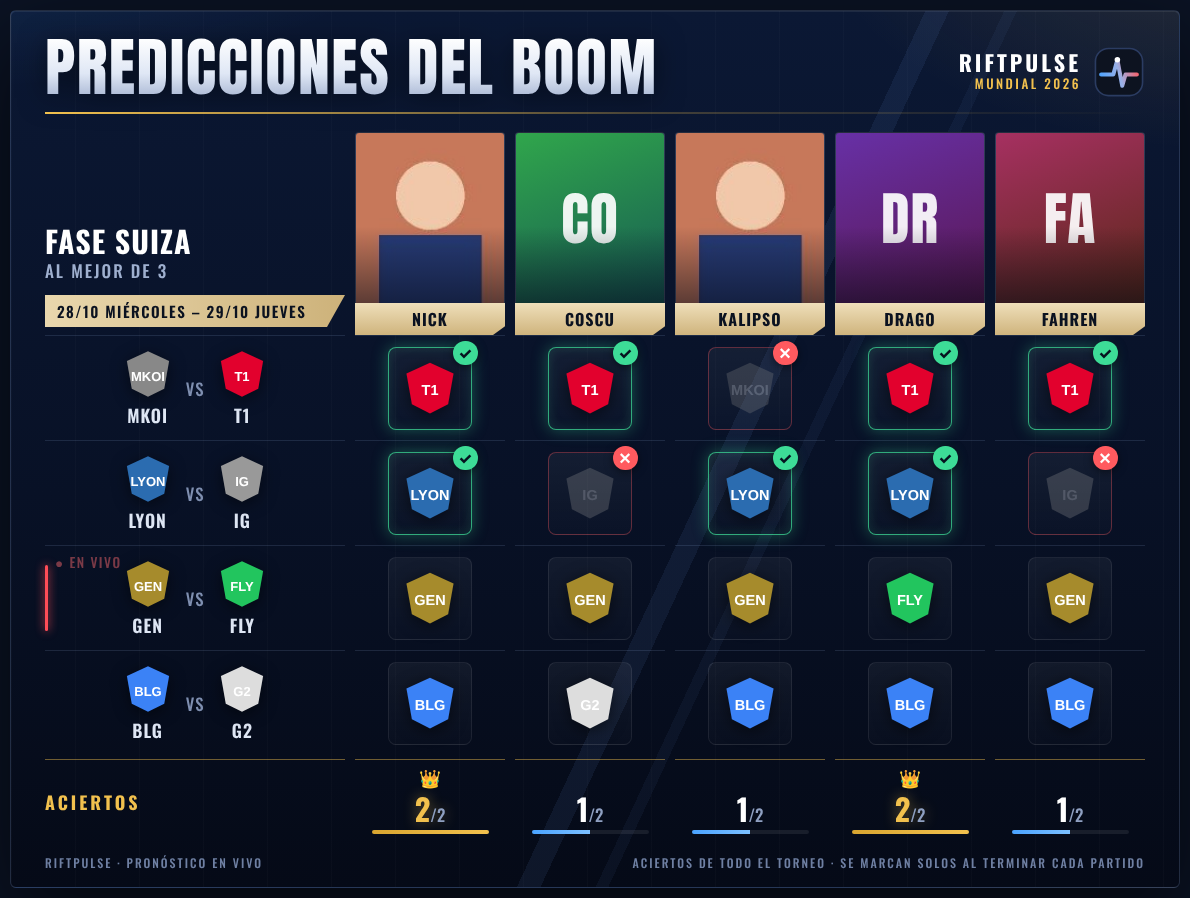
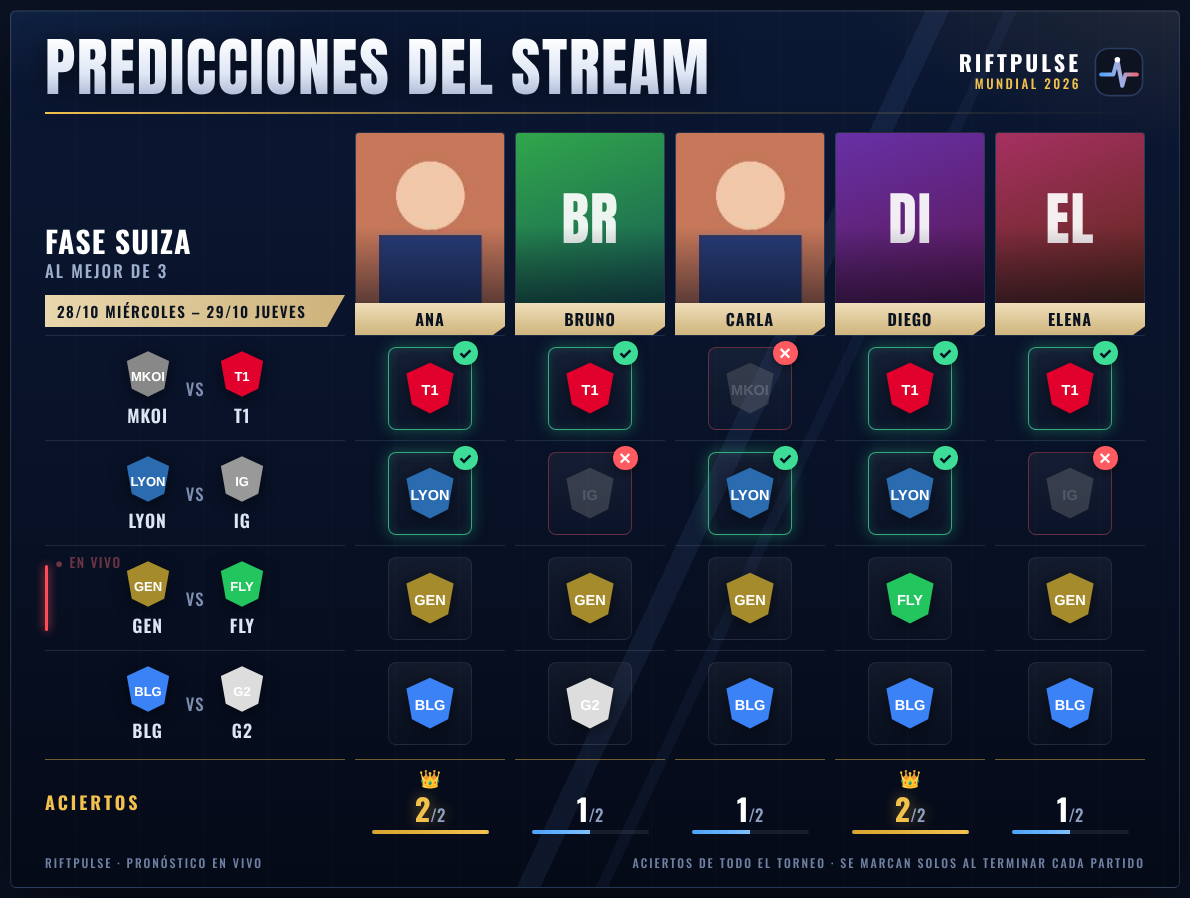
Mesa de analisis: mapa de la Grieta, oro y objetivos, kills, rendimiento por jugador y alineaciones de la serie

diff --git a/analista.html b/analista.html
@@ -96,6 +96,47 @@
   .dr .ch{font-size:12.5px;color:#c7d0e2;line-height:1.7}
   .dr .pl{font-size:12.5px;color:var(--muted);margin-top:6px}.dr .pl b{color:var(--text)}
   .win{margin-top:10px;font-size:13.5px;padding:9px 12px;background:var(--s3);border:1px solid var(--line2);border-radius:10px}
+  /* mapa de la grieta */
+  .rift{display:grid;grid-template-columns:minmax(260px,380px) 1fr;gap:18px;align-items:start}
+  @media(max-width:820px){.rift{grid-template-columns:1fr}}
+  .rift svg{width:100%;height:auto;display:block}
+  .rift .pt{cursor:pointer}
+  .rift .pt circle.r{transition:r .2s}
+  .rift .pt:hover circle.r,.rift .pt.on circle.r{stroke:#f2c14e;stroke-width:1.2}
+  .rift .pls{animation:rpp 1.6s ease-out infinite;transform-origin:center;transform-box:fill-box}
+  @keyframes rpp{0%{opacity:.8;transform:scale(1)}100%{opacity:0;transform:scale(2.4)}}
+  .rdt h3{font-family:var(--ffd,var(--ff));font-size:16px;letter-spacing:1.6px;text-transform:uppercase;margin:0 0 8px}
+  .rdt .ln{display:flex;gap:10px;align-items:baseline;padding:5px 0;border-top:1px solid var(--line2);font-size:13.5px}
+  .rdt .ln:first-of-type{border-top:0}
+  .rdt .t{color:var(--muted);font-variant-numeric:tabular-nums;white-space:nowrap}
+  .rdt .kv{display:flex;flex-wrap:wrap;gap:8px;margin:6px 0 10px}
+  .rdt .kv span{background:var(--s3);border:1px solid var(--line2);border-radius:6px;padding:4px 9px;font-size:12.5px}
+  /* gráficos */
+  .chart{width:100%;display:block}
+  .lg{display:flex;gap:14px;font-size:12px;color:var(--muted);margin-top:6px;flex-wrap:wrap}
+  .lg i{display:inline-block;width:10px;height:10px;border-radius:2px;margin-right:5px;vertical-align:-1px}
+  .pf{width:100%;border-collapse:collapse;font-size:12.5px}
+  .pf td{padding:4px 5px;border-top:1px solid var(--line2);vertical-align:middle}
+  .pf tr.sep td{border-top:2px solid var(--line)}
+  .pf .ch{display:flex;align-items:center;gap:7px;white-space:nowrap}
+  .pf .ch img{width:24px;height:24px;border-radius:4px}
+  .pf .bar{height:7px;border-radius:2px;background:rgba(150,180,230,.12);overflow:hidden;min-width:60px}
+  .pf .bar i{display:block;height:100%}
+  .pf .n{font-variant-numeric:tabular-nums;text-align:right;white-space:nowrap}
+  /* alineaciones de la serie */
+  .maps{display:grid;gap:12px}
+  .mp{display:grid;grid-template-columns:150px 1fr;gap:14px;align-items:center;padding:10px 0;border-top:1px solid var(--line2)}
+  .mp:first-child{border-top:0}
+  @media(max-width:700px){.mp{grid-template-columns:1fr}}
+  .mp .h b{display:block;font-family:var(--ffd,var(--ff));font-size:15px;letter-spacing:1.4px;text-transform:uppercase}
+  .mp .h span{font-size:12px;color:var(--muted)}
+  .mp .lu{display:flex;align-items:center;gap:6px;margin:3px 0}
+  .mp .lu .c{width:46px;font-family:var(--ffd,var(--ff));font-weight:700;letter-spacing:1px}
+  .mp .lu img{width:34px;height:34px;border-radius:4px;border:1px solid var(--line);display:block}
+  .mp .lu .ph{display:inline-grid;place-items:center;width:34px;height:34px;border-radius:4px;border:1px solid var(--line);background:var(--s3);font-size:9px;color:var(--muted);overflow:hidden;text-align:center;line-height:1.05}
+  .mp .lu.w img{border-color:rgba(61,220,151,.6)}
+  .mp .lu.l{opacity:.55}
+  .mp .lu .wn{font-size:11px;color:#3ddc97;letter-spacing:1px;text-transform:uppercase}
   /* resumen post-juego */
   .rc{grid-column:1 / -1;border-color:rgba(242,193,78,.45)}
   .rc .hd{display:flex;align-items:center;gap:12px;flex-wrap:wrap}
@@ -197,6 +238,108 @@
   function recapLines(s){ return R.recapLines(s); }
   function recapPNG(s){ return R.recapPNG(s); }
   function talkingPoints(s){ return R.talk(s).map(function(t,i){ return '<div class="tk"><span><b>'+(i+1)+'.</b> '+t.html+'</span></div>'; }).join(''); }
+  // ---------- campeones (Data Dragon, oficial de Riot) ----------
+  var DDV=null; fetch('https://ddragon.leagueoflegends.com/api/versions.json').then(function(r){return r.json();}).then(function(v){ DDV=v[0]; if(LAST) render(LAST); }).catch(function(){});
+  function champImg(id){ return DDV&&id?'<img src="https://ddragon.leagueoflegends.com/cdn/'+DDV+'/img/champion/'+encodeURIComponent(id)+'.png" alt="" loading="lazy">':''; }
+
+  // ---------- mapa de la Grieta: puntos con datos, se tocan para ver el detalle ----------
+  var RSEL='dragon';
+  var DRAGCOL={Infernal:'#ff6b3d',Océano:'#3db7ff',Montaña:'#c9a46b',Nube:'#cfd8e6',Hextech:'#5ee0e6',Quimtech:'#9be35a',Ancestral:'#b48cff'};
+  function riftCard(s){
+    var m=s.match, g=s.game, t=g.timers||{}, ev=g.events||[], st=g.stats||{blue:{},red:{}};
+    var recent=function(kinds){ return ev.some(function(e){ return kinds.indexOf(e.kind)>=0 && g.gt-e.gt<=60; }); };
+    var lastOf=function(kinds){ return ev.filter(function(e){ return kinds.indexOf(e.kind)>=0; }).slice(-1)[0]; };
+    var dl=lastOf(['dragon','elder']), bl=lastOf(['baron']);
+    var col=function(e,def){ return e?(e.side==='blue'?'#4aa3ff':'#ff5a5f'):def; };
+    var pt=function(id,x,y,c,label,pulse){
+      return '<g class="pt'+(RSEL===id?' on':'')+'" data-pt="'+id+'">'+(pulse?'<circle class="pls" cx="'+x+'" cy="'+y+'" r="4" fill="'+c+'"/>':'')+
+        '<circle class="r" cx="'+x+'" cy="'+y+'" r="4.2" fill="'+c+'" stroke="#0b1220" stroke-width=".8"/><text x="'+x+'" y="'+(y+8.6)+'" text-anchor="middle" font-size="3.4" fill="#c8d3ea" font-family="Oswald,sans-serif" letter-spacing=".3">'+label+'</text></g>';
+    };
+    var svg='<svg viewBox="0 0 100 100" role="img" aria-label="Mapa de la Grieta del Invocador">'+
+      '<defs><linearGradient id="rg" x1="0" y1="0" x2="1" y2="1"><stop offset="0" stop-color="#11233f"/><stop offset="1" stop-color="#1a1426"/></linearGradient></defs>'+
+      '<rect x="1" y="1" width="98" height="98" rx="5" fill="url(#rg)" stroke="#263352"/>'+
+      '<path d="M8 8 L92 92" stroke="#1e4d73" stroke-width="9" opacity=".45"/>'+
+      '<path d="M12 88 L12 12 L88 12 M12 88 L88 88 L88 12 M14 86 L86 14" stroke="#3a4a6b" stroke-width="2.4" fill="none" stroke-linecap="round" opacity=".9"/>'+
+      '<circle cx="12" cy="88" r="9" fill="rgba(74,163,255,.18)" stroke="#4aa3ff" stroke-width=".8"/><circle cx="88" cy="12" r="9" fill="rgba(255,90,95,.16)" stroke="#ff5a5f" stroke-width=".8"/>'+
+      pt('baron',33,33,col(bl,'#8a63d2'),'BARÓN',recent(['baron']))+
+      pt('dragon',67,67,col(dl,'#e0a33a'),'DRAGÓN',recent(['dragon','elder']))+
+      pt('blue',12,88,'#4aa3ff',esc(m.blue.code),recent(['inhib','tower'])&&ev.slice(-1)[0].side==='red')+
+      pt('red',88,12,'#ff5a5f',esc(m.red.code),recent(['inhib','tower'])&&ev.slice(-1)[0].side==='blue')+
+      '</svg>';
+    var d='';
+    if(RSEL==='dragon'){
+      var dr=ev.filter(function(e){ return e.kind==='dragon'||e.kind==='elder'; });
+      var next=t.dragon&&t.dragon.at>g.gt?(t.dragon.elder?'Ancestral':'Dragón')+' en '+mmss(t.dragon.at-g.gt):'—';
+      var soul=function(side){ var n=(st[side]||{}).dragons||0; return n>=4?'¡alma!':n===3?'punto de alma':n+' dragones'; };
+      d='<h3>Pozo del dragón</h3><div class="kv"><span>Próximo: <b>'+next+'</b></span><span class="b">'+esc(m.blue.code)+': '+soul('blue')+'</span><span class="r">'+esc(m.red.code)+': '+soul('red')+'</span></div>'+
+        (dr.length?dr.map(function(e){ var tp=(e.txt.match(/Dragón (\S+)/)||[])[1]||''; return '<div class="ln"><span class="t">'+mmss(e.gt)+'</span><span><b class="'+sc(e.side)+'">'+esc(e.side==='blue'?m.blue.code:m.red.code)+'</b> · <span style="color:'+(DRAGCOL[tp]||'#e8edf7')+'">'+esc(e.txt)+'</span></span></div>'; }).join(''):'<div class="note">Todavía no se tomó ningún dragón.</div>');
+    } else if(RSEL==='baron'){
+      var ba=ev.filter(function(e){ return e.kind==='baron'; }), bf=t.baronBuff&&t.baronBuff.until>g.gt?t.baronBuff:null;
+      d='<h3>Pozo del Barón</h3><div class="kv"><span>'+(g.gt<1200?'Aparece en <b>'+mmss(1200-g.gt)+'</b>':t.baron&&t.baron.at>g.gt?'Reaparece en <b>'+mmss(t.baron.at-g.gt)+'</b>':'<b>Disponible</b>')+'</span>'+
+        (bf?'<span>Buff de <b class="'+sc(bf.side)+'">'+esc(bf.side==='blue'?m.blue.code:m.red.code)+'</b>: quedan '+mmss(bf.until-g.gt)+'</span>':'')+'</div>'+
+        (ba.length?ba.map(function(e){ return '<div class="ln"><span class="t">'+mmss(e.gt)+'</span><span><b class="'+sc(e.side)+'">'+esc(e.side==='blue'?m.blue.code:m.red.code)+'</b> toma el Barón Nashor</span></div>'; }).join(''):'<div class="note">Todavía nadie tomó el Barón.</div>');
+    } else {
+      var side=RSEL, foe=side==='blue'?'red':'blue', code=side==='blue'?m.blue.code:m.red.code;
+      var downs=(t.inhibs||[]).filter(function(i){ return i.side===foe&&i.until>g.gt; });
+      var es=st[side]||{}, ef=st[foe]||{};
+      d='<h3 class="'+sc(side)+'">Base de '+esc(code)+'</h3><div class="kv"><span>Torres perdidas: <b>'+(ef.towers||0)+'</b></span><span>Inhibidores caídos: <b>'+downs.length+'</b></span><span>Oro: <b>'+k1(es.gold||0)+'</b></span><span>Kills: <b>'+(es.kills||0)+'</b></span></div>'+
+        (downs.length?downs.map(function(i){ return '<div class="ln"><span class="t">reaparece en '+mmss(i.until-g.gt)+'</span><span>Inhibidor caído</span></div>'; }).join(''):'')+
+        '<div class="note">El feed da cuántas torres cayeron, no cuáles: por eso se muestran en la base.</div>';
+    }
+    return '<div class="rift"><div>'+svg+'</div><div class="rdt">'+d+'<div class="note">Tocá un punto del mapa: dragón, Barón o cada base.</div></div></div>';
+  }
+
+  // ---------- gráficos ----------
+  function goldChart(s){
+    var g=s.game, sm=(g.samples||[]).filter(function(x){ return x.diff!=null; }); if(sm.length<2) return '<div class="note">Se dibuja conforme avanza el juego…</div>';
+    var W=600,H=170,P=24, t1=Math.max(60,sm[sm.length-1].gt), mx=Math.max(2000,Math.max.apply(null,sm.map(function(x){ return Math.abs(x.diff); })));
+    var X=function(t){ return P+t/t1*(W-P-6); }, Y=function(v){ return H/2-v/mx*(H/2-14); };
+    var line=sm.map(function(x){ return X(x.gt).toFixed(1)+','+Y(x.diff).toFixed(1); }).join(' ');
+    var area='M'+X(sm[0].gt)+','+Y(0)+' L'+line.split(' ').join(' L')+' L'+X(sm[sm.length-1].gt)+','+Y(0)+' Z';
+    var mk=(g.events||[]).filter(function(e){ return ['dragon','elder','baron','inhib'].indexOf(e.kind)>=0; }).map(function(e){
+      var c=e.side==='blue'?'#4aa3ff':'#ff5a5f', ic={dragon:'D',elder:'A',baron:'B',inhib:'I'}[e.kind], y=e.side==='blue'?10:H-10;
+      return '<g><line x1="'+X(e.gt)+'" x2="'+X(e.gt)+'" y1="'+(e.side==='blue'?16:H/2)+'" y2="'+(e.side==='blue'?H/2:H-16)+'" stroke="'+c+'" stroke-dasharray="2 3" opacity=".5"/><circle cx="'+X(e.gt)+'" cy="'+y+'" r="7" fill="'+c+'"/><text x="'+X(e.gt)+'" y="'+(y+3.2)+'" text-anchor="middle" font-size="9" font-weight="700" fill="#06121f">'+ic+'</text><title>'+mmss(e.gt)+' · '+esc(e.txt)+'</title></g>'; }).join('');
+    var ticks=[]; for(var t=0;t<=t1;t+=300) ticks.push('<text x="'+X(t)+'" y="'+(H-1)+'" font-size="9" fill="#6a7a9c" text-anchor="middle">'+(t/60)+'\'</text>');
+    return '<svg class="chart" viewBox="0 0 '+W+' '+H+'"><defs><linearGradient id="gg" x1="0" y1="0" x2="0" y2="1"><stop offset="0" stop-color="#4aa3ff" stop-opacity=".55"/><stop offset=".5" stop-color="#4aa3ff" stop-opacity=".05"/><stop offset=".5" stop-color="#ff5a5f" stop-opacity=".05"/><stop offset="1" stop-color="#ff5a5f" stop-opacity=".55"/></linearGradient></defs>'+
+      '<line x1="'+P+'" x2="'+W+'" y1="'+Y(0)+'" y2="'+Y(0)+'" stroke="#263352"/><text x="2" y="'+(Y(mx)+4)+'" font-size="9" fill="#6a7a9c">+'+k1(mx)+'</text><text x="2" y="'+(Y(-mx)+4)+'" font-size="9" fill="#6a7a9c">+'+k1(mx)+'</text>'+
+      '<path d="'+area+'" fill="url(#gg)"/><polyline points="'+line+'" fill="none" stroke="#e8edf7" stroke-width="1.6"/>'+mk+ticks.join('')+'</svg>'+
+      '<div class="lg"><span><i style="background:#4aa3ff"></i>arriba: ventaja de '+esc(s.match.blue.code)+'</span><span><i style="background:#ff5a5f"></i>abajo: ventaja de '+esc(s.match.red.code)+'</span><span>D dragón · A ancestral · B Barón · I inhibidor</span></div>';
+  }
+  function killsChart(s){
+    var sm=(s.game.samples||[]).filter(function(x){ return x.kb!=null; }); if(sm.length<2) return '<div class="note">Se dibuja conforme avanza el juego…</div>';
+    var W=600,H=150,P=22, t1=Math.max(60,sm[sm.length-1].gt), mx=Math.max(5,Math.max.apply(null,sm.map(function(x){ return Math.max(x.kb,x.kr); })));
+    var X=function(t){ return P+t/t1*(W-P-6); }, Y=function(v){ return H-14-v/mx*(H-26); };
+    var step=function(k){ var d='M'+X(sm[0].gt)+','+Y(sm[0][k]); for(var i=1;i<sm.length;i++) d+=' L'+X(sm[i].gt)+','+Y(sm[i-1][k])+' L'+X(sm[i].gt)+','+Y(sm[i][k]); return d; };
+    var last=sm[sm.length-1];
+    return '<svg class="chart" viewBox="0 0 '+W+' '+H+'"><line x1="'+P+'" x2="'+W+'" y1="'+Y(0)+'" y2="'+Y(0)+'" stroke="#263352"/>'+
+      '<path d="'+step('kb')+'" fill="none" stroke="#4aa3ff" stroke-width="2"/><path d="'+step('kr')+'" fill="none" stroke="#ff5a5f" stroke-width="2"/>'+
+      '<text x="'+(W-4)+'" y="'+(Y(last.kb)-4)+'" text-anchor="end" font-size="11" font-weight="700" fill="#4aa3ff">'+last.kb+'</text><text x="'+(W-4)+'" y="'+(Y(last.kr)+12)+'" text-anchor="end" font-size="11" font-weight="700" fill="#ff5a5f">'+last.kr+'</text></svg>'+
+      '<div class="lg"><span><i style="background:#4aa3ff"></i>'+esc(s.match.blue.code)+'</span><span><i style="background:#ff5a5f"></i>'+esc(s.match.red.code)+'</span></div>';
+  }
+  function perfCard(s){
+    var L=s.game.lanes, m=s.match, gt=Math.max(60,s.game.gt);
+    if(!L||!L.length) return '<div class="note">Aparece cuando llega el feed de detalles de los jugadores.</div>';
+    var all=[]; L.forEach(function(l){ all.push(l.blue,l.red); });
+    var mxS=Math.max.apply(null,all.map(function(p){ return p.share||0; }))||1, mxG=Math.max.apply(null,all.map(function(p){ return p.gold||0; }))||1;
+    var row=function(p,side){ var c=side==='blue'?'#4aa3ff':'#ff5a5f';
+      return '<tr><td><div class="ch">'+champImg(p.champId)+'<span class="'+sc(side)+'">'+esc(p.name)+'</span></div></td>'+
+        '<td style="width:30%"><div class="bar"><i style="width:'+Math.round((p.share||0)/mxS*100)+'%;background:'+c+'"></i></div></td><td class="n">'+Math.round((p.share||0)*100)+'%</td>'+
+        '<td style="width:22%"><div class="bar"><i style="width:'+Math.round((p.gold||0)/mxG*100)+'%;background:#f2c14e"></i></div></td><td class="n">'+k1(p.gold||0)+'</td>'+
+        '<td class="n">'+((p.cs||0)/(gt/60)).toFixed(1)+'</td></tr>'; };
+    return '<table class="pf"><tr><td></td><td colspan="2" class="note" style="border:0">% del daño del equipo</td><td colspan="2" class="note" style="border:0">oro</td><td class="note n" style="border:0">CS/min</td></tr>'+
+      L.map(function(l){ return row(l.blue,'blue'); }).join('')+'<tr class="sep"><td colspan="6"></td></tr>'+L.map(function(l){ return row(l.red,'red'); }).join('')+'</table>';
+  }
+  function mapsCard(s){
+    var mp=s.maps;
+    if(!mp||!mp.length) return '<div class="note">Aparece cuando la serie tiene juegos jugados o en curso.</div>';
+    return '<div class="maps">'+mp.map(function(x){
+      if(x.loading||!x.blue) return '<div class="mp"><div class="h"><b>Mapa '+x.n+'</b><span>cargando…</span></div><div></div></div>';
+      var team=function(side){ var t=x[side], w=x.winner?(x.winner===t.code?' w':' l'):'';
+        return '<div class="lu'+w+'"><span class="c '+sc(side)+'">'+esc(t.code)+'</span>'+t.picks.map(function(p){ return '<span title="'+esc(p.name+' · '+p.champ)+'">'+(champImg(p.champId)||'<span class="ph">'+esc(p.champ.slice(0,7))+'</span>')+'</span>'; }).join('')+(x.winner===t.code?'<span class="wn">gana</span>':'')+'</div>'; };
+      return '<div class="mp"><div class="h"><b>Mapa '+x.n+'</b><span>'+(x.state==='inProgress'?'en curso':x.winner?esc(x.winner)+' gana'+(x.dur?' · '+mmss(x.dur):''):'')+'</span></div><div>'+team('blue')+team('red')+'</div></div>';
+    }).join('')+'</div><div class="note">Azul arriba, rojo abajo. El feed oficial no trae los bloqueos (bans): solo las selecciones.</div>';
+  }
+
   function recapCard(s){
     var m=s.match, r=s.game.recap;
     return '<div class="card rc"><div class="hd"><span class="ttl '+sc(r.win)+'">'+esc(r.code)+' gana el juego'+(m.gameNo?' '+m.gameNo:'')+'</span><span class="vs">vs '+esc(r.lose)+'</span>'+
@@ -248,16 +391,22 @@
         '<div class="card"><h2>Momentum y giros clave</h2>'+sparkline(g.samples||[],g.swings)+'<div class="spk-note">Probabilidad de '+esc(m.blue.code)+' (arriba) frente a '+esc(m.red.code)+' (abajo) en todo el juego. Sombreado: giros clave.</div>'+swingList(g.swings)+'</div>'+
         '<div class="card"><h2>Objetivos y eventos</h2><div class="tms">'+tms+'</div><ul class="ev">'+evs+'</ul></div>'+
         '<div class="card talk"><h2>Puntos para comentar</h2>'+talkingPoints(s)+'</div>'+
+        '<div class="card wide"><h2>Mapa de la Grieta</h2>'+riftCard(s)+'</div>'+
+        '<div class="card wide"><h2>Oro y objetivos</h2>'+goldChart(s)+'</div>'+
+        '<div class="card"><h2>Kills en el tiempo</h2>'+killsChart(s)+'</div>'+
+        '<div class="card"><h2>Rendimiento por jugador</h2>'+perfCard(s)+'</div>'+
         '<div class="card"><h2>Duelos por línea</h2>'+lanesCard(s)+'</div>'+
         '<div class="card"><h2>Serie</h2>'+seriesCard(s)+'</div>'+
         '<div class="card"><h2>Draft y ventana de poder</h2>'+draftCard(s)+'</div>'+
         '<div class="card"><h2>Para remontar</h2>'+comebackCard(s)+'</div>'+
+        '<div class="card wide"><h2>Alineaciones de la serie</h2>'+mapsCard(s)+'</div>'+
       '</div>';
   }
 
   if (!R){ content.innerHTML='<div class="card"><div class="empty">No cargó el motor (engine.js).</div></div>'; return; }
   var LAST=null;
   content.addEventListener('click',function(e){
+    var pt=e.target.closest('[data-pt]'); if (pt){ RSEL=pt.getAttribute('data-pt'); if (LAST) render(LAST); return; }
     var b=e.target.closest('[data-act="png"]'); if (!b || !LAST || !LAST.game || !LAST.game.recap) return;
     var a=document.createElement('a'); a.href=recapPNG(LAST); a.download='riftpulse-'+LAST.game.recap.code+'-juego'+(LAST.match.gameNo||'')+'.png'; a.click();
   });

diff --git a/engine.js b/engine.js
@@ -159,7 +159,8 @@
     G.last = f; G.lastTs = ts; G.gt = gt;
     G.wp = winProb(f, gt);
     var s = G.samples[G.samples.length - 1];
-    if (!s || gt - s.gt >= 10) G.samples.push({gt: gt, diff: f.blueTeam.totalGold - f.redTeam.totalGold, p: G.wp.p});
+    if (!s || gt - s.gt >= 10) G.samples.push({gt: gt, diff: f.blueTeam.totalGold - f.redTeam.totalGold, p: G.wp.p,
+      kb: f.blueTeam.totalKills, kr: f.redTeam.totalKills, tb: f.blueTeam.towers, tr: f.redTeam.towers});
     if (f.gameState === 'finished') { if (!G.ended && DEMO) DEMO.next = setTimeout(demoNext, 30000); G.ended = true; }
     emit();
   }
@@ -225,7 +226,7 @@
       var md = (G.meta[key] || {}).participantMetadata || [];
       return md.map(function (p) {
         var st = df.participants.find(function (x) { return x.participantId === p.participantId; }) || {};
-        return {name: shortName(p.summonerName), role: p.role, champ: champName(p.championId), share: st.championDamageShare || 0, kp: st.killParticipation || 0,
+        return {name: shortName(p.summonerName), role: p.role, champ: champName(p.championId), champId: p.championId, share: st.championDamageShare || 0, kp: st.killParticipation || 0,
           k: st.kills || 0, d: st.deaths || 0, a: st.assists || 0, cs: st.creepScore || 0, gold: st.totalGoldEarned || 0, lvl: st.level || 1};
       });
     }
@@ -442,7 +443,7 @@
         samples: G.samples ? G.samples.slice() : [], impact: impactNext(),
         fight: G.fight && G.fight.players ? {gt: G.fight.gt, win: G.fight.win, blue: G.fight.players.blue, red: G.fight.players.red} : null,
         swings: keyMoments(3), comeback: comebackPaths(), draft: draftInfo(), lanes: L, keyPlayer: keyPlayer(L), recap: recap()} : null,
-      series: seriesNow(), h2h: M ? h2hFor(bt.code, rt.code) : null,
+      series: seriesNow(), h2h: M ? h2hFor(bt.code, rt.code) : null, maps: seriesMaps(),
       demo: DEMO && DEMO.cur ? {blue: DEMO.cur.blue, red: DEMO.cur.red, date: DEMO.cur.date, block: DEMO.cur.block, vel: DEMO.vel} : null,
       blueCode: blueCode, redCode: redCode, delay: delay, precision: PRECISION, next: NEXTM, at: Date.now()
     };
@@ -535,6 +536,50 @@
     await demoNext();
     return true;
   };
+  // ---------- alineaciones de cada juego de la serie (campeones, ganador y duración) ----------
+  // El feed oficial no trae los bloqueos (bans): solo las selecciones.
+  var MAPS = {}, MAPS_LOADING = {};
+  function winnerOf(f) {  // el feed no dice quién ganó: se deduce de lo destruido al final
+    var b = f.blueTeam, r = f.redTeam, sb = b.towers + 2 * b.inhibitors, sr = r.towers + 2 * r.inhibitors;
+    return sb !== sr ? (sb > sr ? 'blue' : 'red') : (b.totalGold >= r.totalGold ? 'blue' : 'red');
+  }
+  async function loadMap(gm, n) {
+    if (MAPS[gm.id] && (MAPS[gm.id].done || gm.state === 'inProgress')) return;
+    if (MAPS_LOADING[gm.id]) return; MAPS_LOADING[gm.id] = true;
+    try {
+      var c = null; try { c = JSON.parse(localStorage.getItem('rp_map_' + gm.id) || 'null'); } catch (e) {}
+      if (c && c.done) { MAPS[gm.id] = c; return; }
+      var gi = await gameInfo(gm.id); if (!gi || !gi.meta) return;
+      var side = function (k) {
+        var md = gi.meta[k + 'TeamMetadata'], tm = (M.teams || []).filter(function (t) { return t.id === md.esportsTeamId; })[0];
+        return {code: tm ? tm.code : '?', picks: (md.participantMetadata || []).map(function (p) { return {champId: p.championId, champ: champName(p.championId), role: p.role, name: shortName(p.summonerName)}; })};
+      };
+      var out = {id: gm.id, n: n, state: gm.state, blue: side('blue'), red: side('red'), patch: gi.meta.patchVersion || '', winner: null, dur: null, done: false};
+      if (gm.state === 'completed') {  // buscar el final del juego, de 3 en 3 minutos
+        var last = null, t = gi.start + 18 * 60000;
+        for (var k = 0; k < 30; k++, t += 180000) {
+          var w = await feed('window', gm.id, t), fr = w && w.frames && w.frames.length ? w.frames : null;
+          if (!fr) break;
+          last = fr[fr.length - 1];
+          if (last.gameState === 'finished' || Date.parse(last.rfc460Timestamp) < t - 30000) break;
+        }
+        if (last) { var ws = winnerOf(last); out.winner = out[ws].code; out.dur = (Date.parse(last.rfc460Timestamp) - gi.start) / 1000; out.done = true; }
+      }
+      MAPS[gm.id] = out;
+      if (out.done) try { localStorage.setItem('rp_map_' + gm.id, JSON.stringify(out)); } catch (e) {}
+    } catch (e) {} finally { MAPS_LOADING[gm.id] = false; emit(); }
+  }
+  function seriesMaps() {
+    if (!M || !M.games) return null;
+    var list = [];
+    M.games.forEach(function (gm, i) {
+      if (gm.state !== 'completed' && gm.state !== 'inProgress') return;
+      if (!MAPS[gm.id] || (!MAPS[gm.id].done && gm.state === 'completed')) loadMap(gm, i + 1);
+      list.push(MAPS[gm.id] || {id: gm.id, n: i + 1, state: gm.state, loading: true});
+    });
+    return list;
+  }
+
   // ---------- identificar qué juego se ve en el video (para la sincronía automática) ----------
   // o = {gt (s del reloj del juego), tags: [izq, der], gold: [izq, der] en miles | null, kills: [izq, der] | null}
   // Compara contra los datos oficiales de cada juego reciente en ese minuto. Devuelve {matchId, juego, codes, score} o null.

diff --git a/wiki/Mesa-de-análisis.md b/wiki/Mesa-de-análisis.md
@@ -13,6 +13,10 @@ Sin partido en vivo, pruébala con un partido real ya jugado: `analista.html?dem
 - **Por qué** — el desglose de los factores del modelo (oro, torres, dragones, almas, Barón, inhibidores…).
 - **Momentum y giros clave** — la probabilidad en todo el juego, con los tramos donde saltó 9 puntos o más sombreados y su causa (*"min 20:30–24:00, GEN +38: Barón Nashor"*).
 - **Objetivos y eventos** — timers y lo que va pasando.
+- **Mapa de la Grieta** — un mapa esquemático con puntos para tocar: el pozo del dragón (dragones tomados por tipo y minuto, alma, próximo), el del Barón (quién lo tomó, buff activo, cuándo reaparece) y cada base (torres perdidas, inhibidores caídos y cuándo reaparecen). El punto se ilumina si pasó algo en el último minuto.
+- **Oro y objetivos** — la diferencia de oro de todo el juego, con dragones, Barones e inhibidores marcados donde ocurrieron.
+- **Kills en el tiempo** y **rendimiento por jugador** (campeón, % del daño del equipo, oro y CS por minuto).
+- **Alineaciones de la serie** — los 10 campeones de cada mapa jugado o en curso, quién ganó y cuánto duró. El feed oficial no trae los bloqueos (bans).
 - **Duelos por línea** — top, jungla, mid, ADC y soporte frente a su rival directo: diferencia de oro y CS, K/D/A y campeón. Destaca al **jugador clave** del momento (oro sobre su rival, % del daño del equipo y participación en kills).
 - **Serie** — cuánto vale este juego: probabilidad de llevarse la serie si lo gana cada equipo, y ahora mismo. Los juegos que faltan se cuentan 50/50 (el motor no estima la fuerza previa de los equipos). Incluye el **cara a cara** de 2025–26.
 - **Draft y ventana de poder** — el plan de cada draft según la escala de sus campeones en ~2,200 juegos profesionales, y quién necesita ventaja antes del min ~20–24. Es contexto: no cambia la probabilidad.

diff --git a/wiki/Control-de-producción.md b/wiki/Control-de-producción.md
@@ -25,7 +25,7 @@ El overlay y el control se sincronizan cuando **ambos corren en OBS** (comparten
 <p align="center"><img src="https://raw.githubusercontent.com/userf8a2c4/riftpulse-overlay/main/docs/img/predicciones.png" width="760" alt="Predicciones del stream"><br><sub>Datos de ejemplo.</sub></p>
 
 La gráfica de picks del equipo del stream, como la de las transmisiones oficiales, pero con aciertos automáticos.
-1. Ponle **título** (por ejemplo, «Predicciones del Boom»).
+1. Ponle **título** (por ejemplo, «Predicciones del stream» o el nombre de tu canal).
 2. Agrega a los **integrantes**, todos los que quieras: nombre y, si quieres, una **foto** (se sube desde la computadora y se ajusta sola).
 3. Elige **qué partidos**: el próximo día con partidos (automático), cualquier día del torneo o una **fase completa** (por ejemplo, todos los cuartos).
 4. Toca el equipo que elige cada integrante en cada partido.
